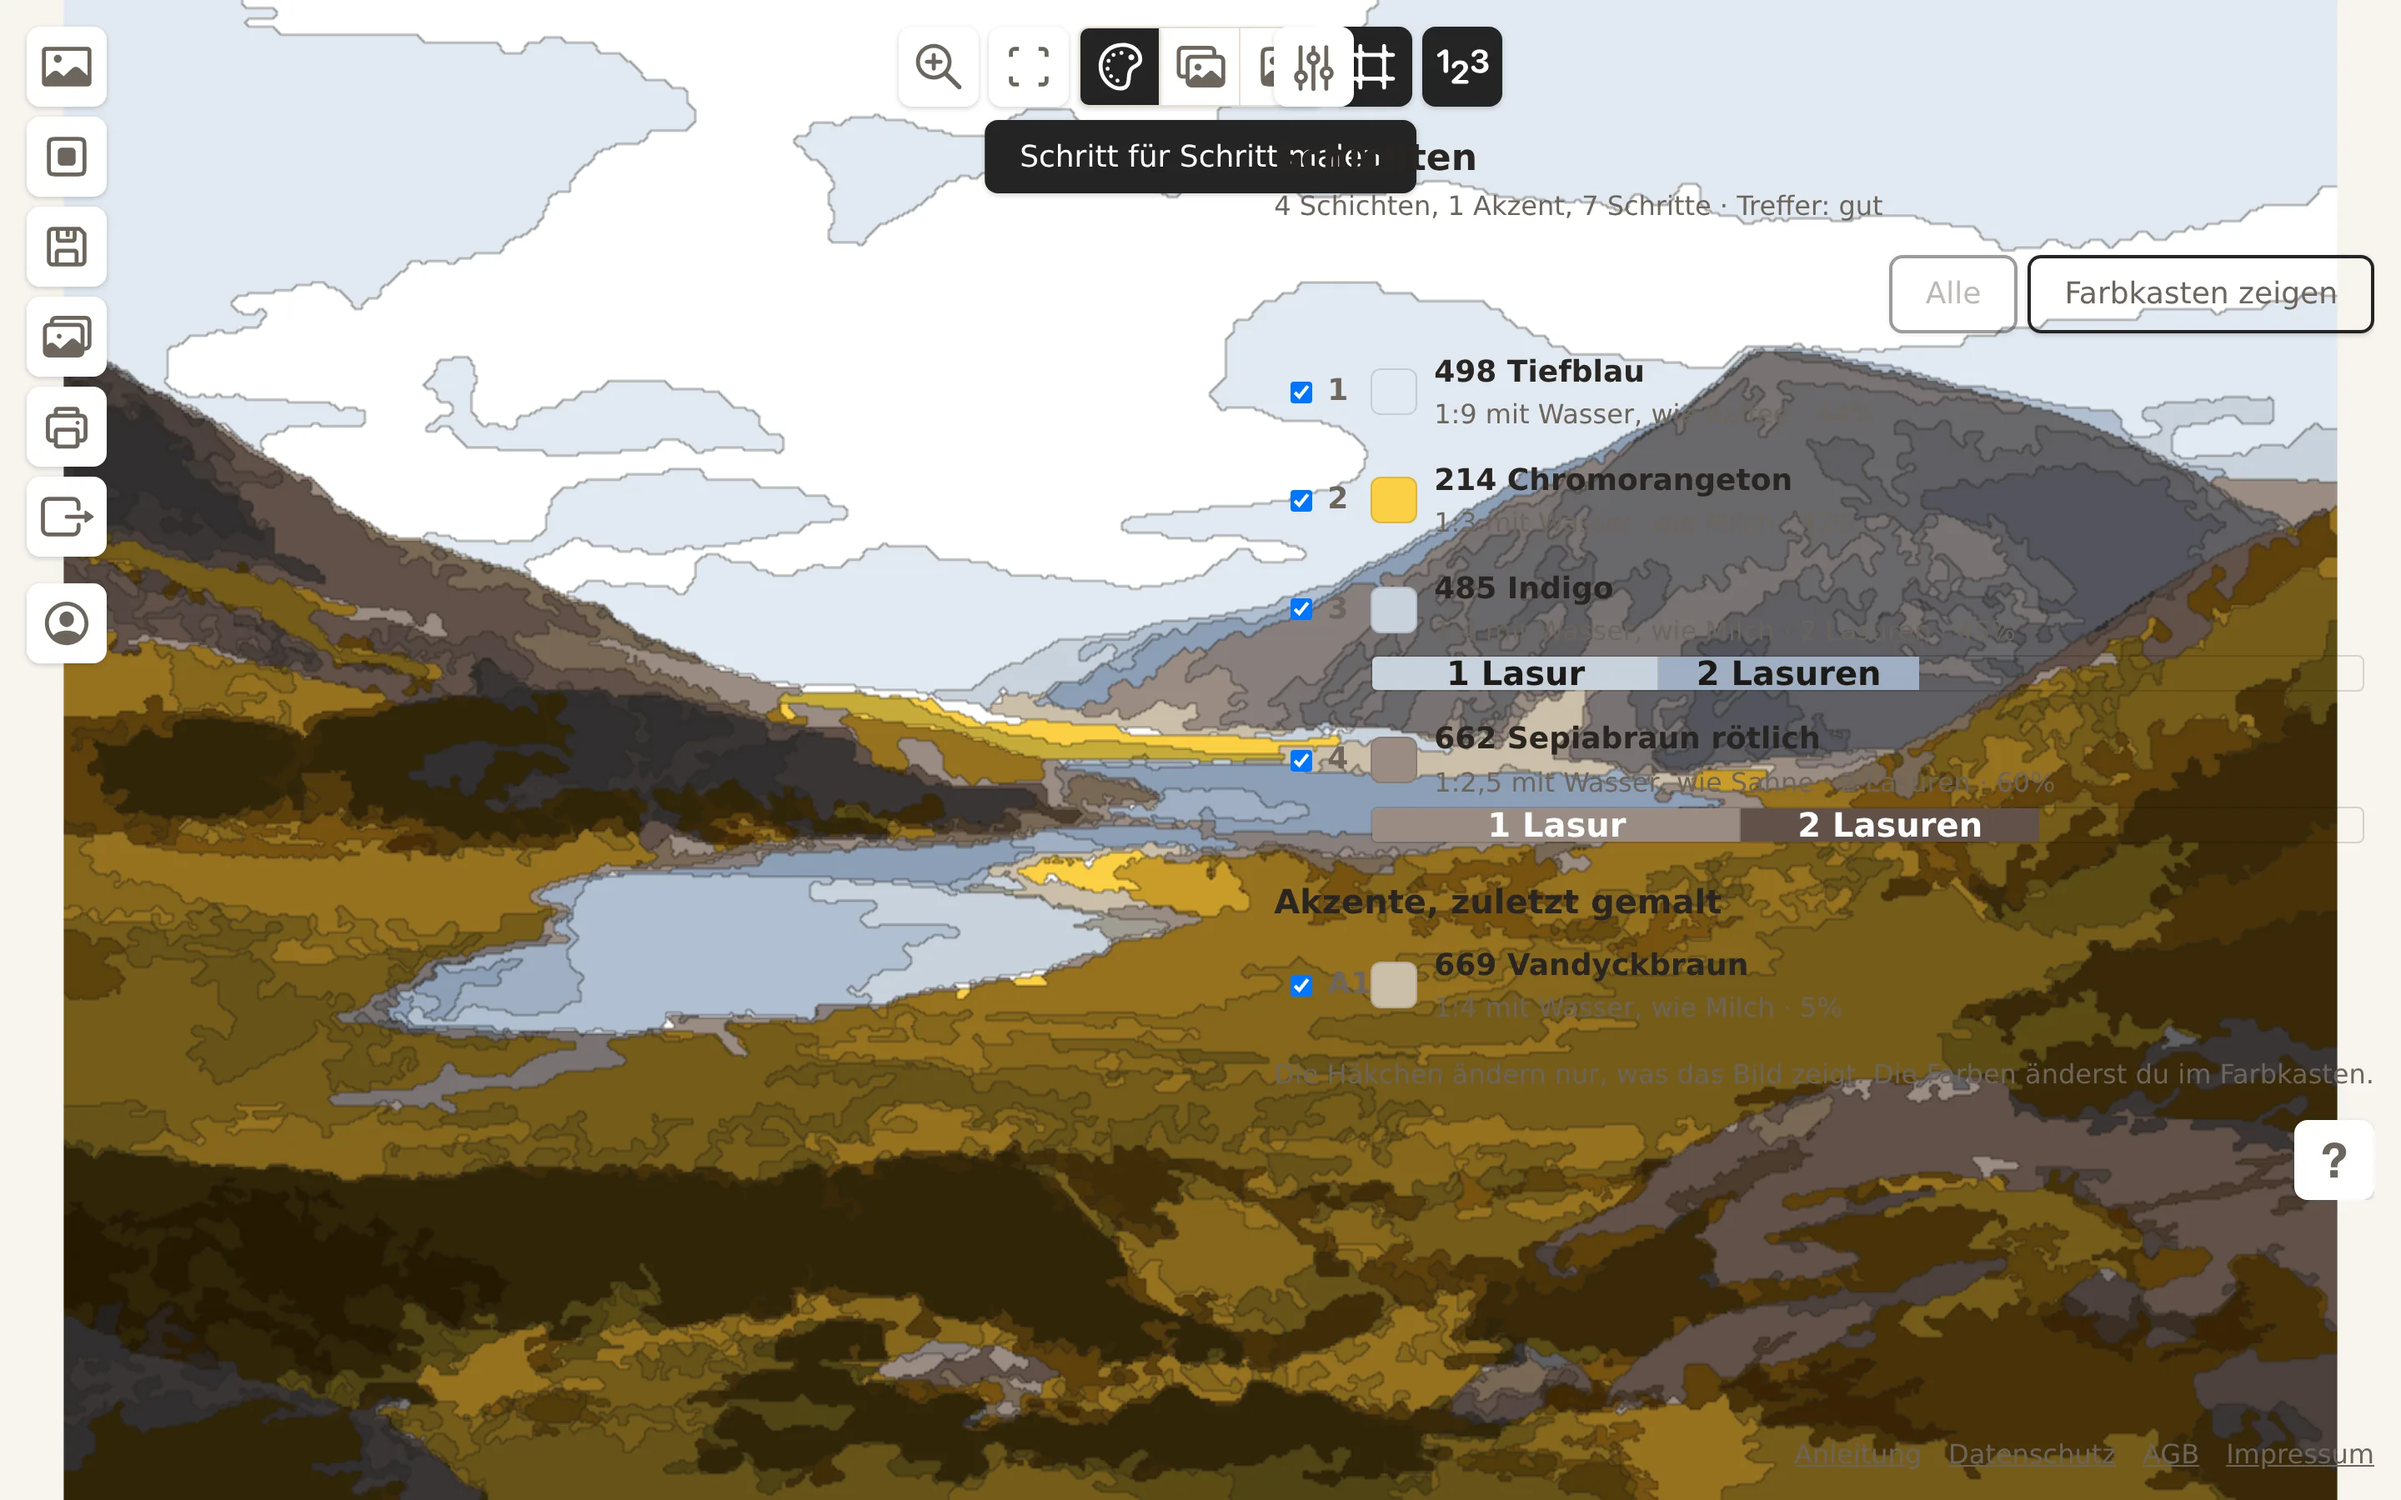
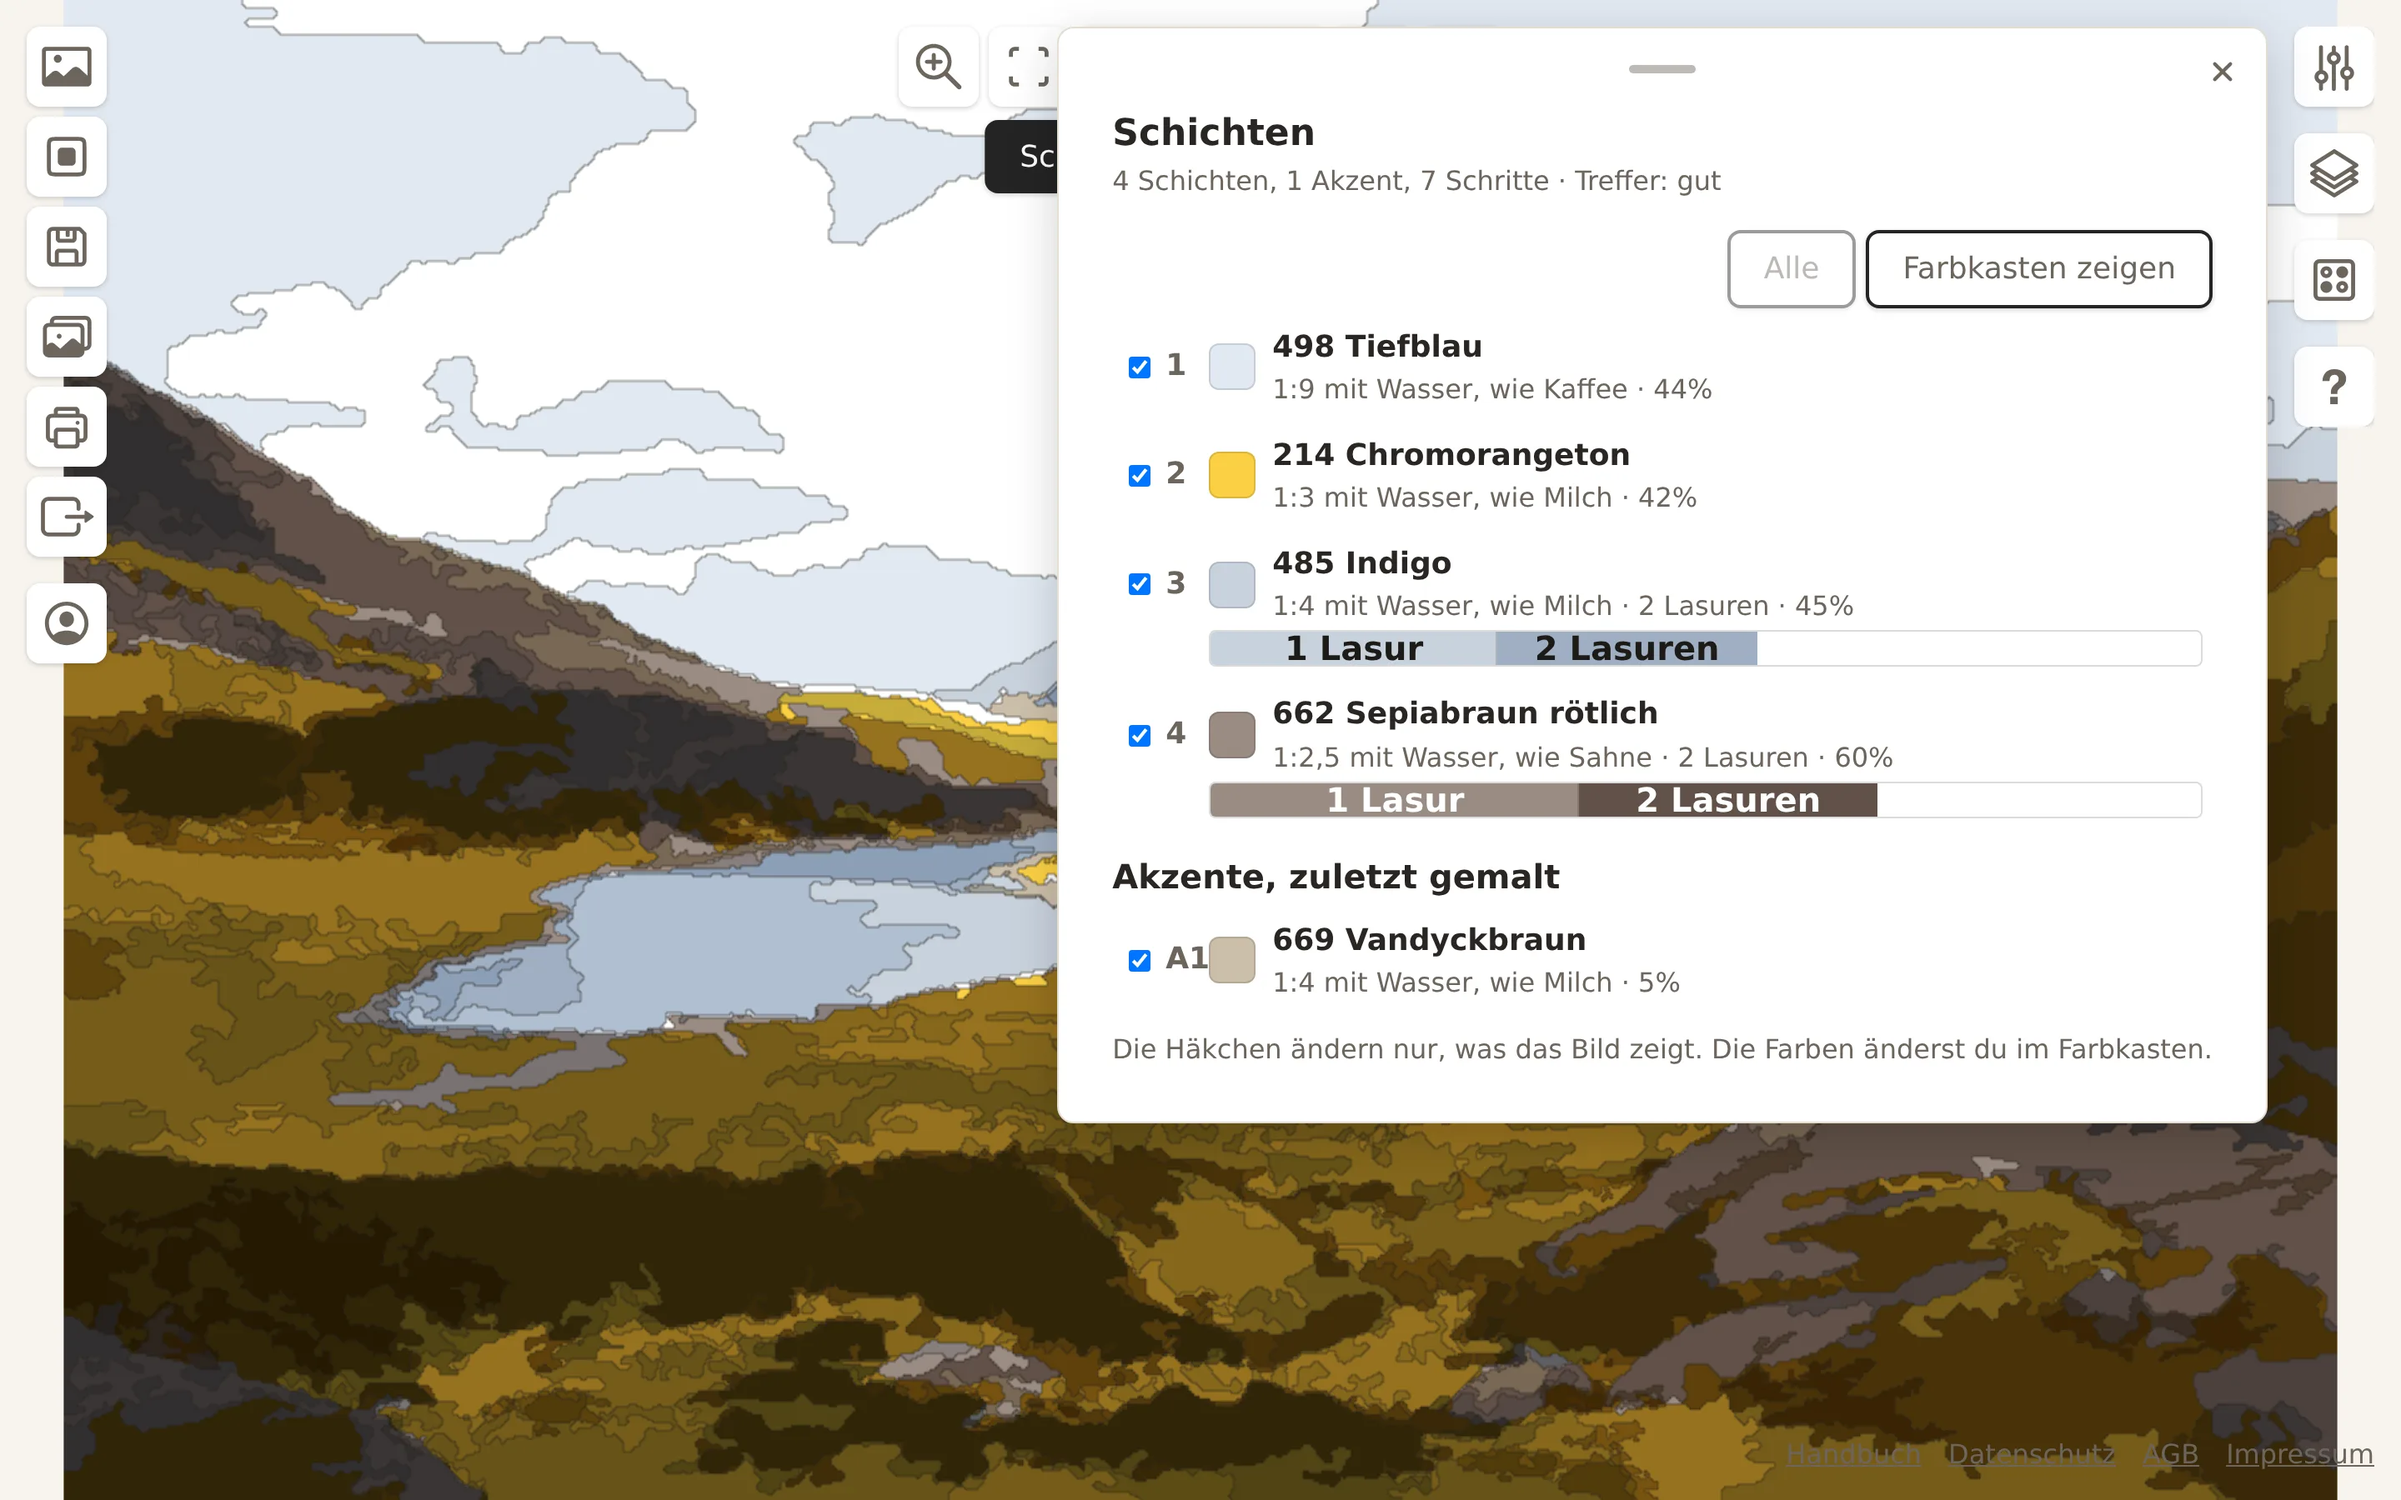
docs: layer-mode screenshots from the fixed layout; chapter 07 says where the layer card opens

diff --git a/public/de/handbuch/alles.html b/public/de/handbuch/alles.html
@@ -559,7 +559,7 @@
 </tr>
 </tbody></table></div>
 <h2 id="schichten--die-schichtenliste"><a class="anchor" href="#schichten--die-schichtenliste" aria-hidden="true" tabindex="-1">#</a>Die Schichtenliste</h2>
-<p>Die Liste zeigt die Schichten in der Reihenfolge, in der du sie malst, von hell nach dunkel, und darunter die Akzente unter <strong>Akzente, zuletzt gemalt</strong>.</p>
+<p>Bei Schichten öffnet der Knopf unter <strong>Einstellungen</strong> in der rechten Spalte statt der Farben die Schichten: eine Karte über dem Bild, die du an ihrem Griff verschiebst und wieder schließt, genau wie die Farbliste. Der Knopf <strong>Farbkasten</strong> darunter öffnet den Farbkasten. Die Karte zeigt die Schichten in der Reihenfolge, in der du sie malst, von hell nach dunkel, und darunter die Akzente unter <strong>Akzente, zuletzt gemalt</strong>. Tippst du auf eine Stelle im Bild, zeigt die Karte diese Stelle oben an.</p>
 <p>Jede Zeile nennt die Farbe, wie du ihre Lasur ansetzt, und ihre Lasuren. Die Lasur steht als Verhältnis und als Konsistenz da, zum Beispiel <strong>1:9 mit Wasser, wie Kaffee</strong>: ein Teil Farbe auf neun Teile Wasser. Die Konsistenzen sind die, mit denen Maler sich verständigen:</p>
 <div class="table-wrap"><table class="table">
 <thead>

diff --git a/public/de/handbuch/schichten.html b/public/de/handbuch/schichten.html
@@ -73,7 +73,7 @@
 </tr>
 </tbody></table></div>
 <h2 id="die-schichtenliste"><a class="anchor" href="#die-schichtenliste" aria-hidden="true" tabindex="-1">#</a>Die Schichtenliste</h2>
-<p>Die Liste zeigt die Schichten in der Reihenfolge, in der du sie malst, von hell nach dunkel, und darunter die Akzente unter <strong>Akzente, zuletzt gemalt</strong>.</p>
+<p>Bei Schichten öffnet der Knopf unter <strong>Einstellungen</strong> in der rechten Spalte statt der Farben die Schichten: eine Karte über dem Bild, die du an ihrem Griff verschiebst und wieder schließt, genau wie die Farbliste. Der Knopf <strong>Farbkasten</strong> darunter öffnet den Farbkasten. Die Karte zeigt die Schichten in der Reihenfolge, in der du sie malst, von hell nach dunkel, und darunter die Akzente unter <strong>Akzente, zuletzt gemalt</strong>. Tippst du auf eine Stelle im Bild, zeigt die Karte diese Stelle oben an.</p>
 <p>Jede Zeile nennt die Farbe, wie du ihre Lasur ansetzt, und ihre Lasuren. Die Lasur steht als Verhältnis und als Konsistenz da, zum Beispiel <strong>1:9 mit Wasser, wie Kaffee</strong>: ein Teil Farbe auf neun Teile Wasser. Die Konsistenzen sind die, mit denen Maler sich verständigen:</p>
 <div class="table-wrap"><table class="table">
 <thead>

diff --git a/public/manual/all.html b/public/manual/all.html
@@ -559,7 +559,7 @@
 </tr>
 </tbody></table></div>
 <h2 id="layer-mode--the-layer-list"><a class="anchor" href="#layer-mode--the-layer-list" aria-hidden="true" tabindex="-1">#</a>The layer list</h2>
-<p>The list shows each layer in painting order, from light to dark, and the accents below it under <strong>Accents, painted last</strong>.</p>
+<p>In layer mode the button below <strong>Settings</strong> in the right column opens the layers instead of the colours: a card over the picture that you can move by its handle and close again, like the colour list. The <strong>Paint box</strong> button below it opens the paint box. The card shows each layer in painting order, from light to dark, and the accents below it under <strong>Accents, painted last</strong>. When you tap a spot in the picture, the card shows that spot at the top.</p>
 <p>Each row gives the paint, how to prepare its wash, and its coats. The wash is written as a ratio and a consistency, for example <strong>1:9 with water, like coffee</strong>: one part paint to nine parts water. The consistencies are the ones painters use:</p>
 <div class="table-wrap"><table class="table">
 <thead>

diff --git a/public/manual/layer-mode.html b/public/manual/layer-mode.html
@@ -73,7 +73,7 @@
 </tr>
 </tbody></table></div>
 <h2 id="the-layer-list"><a class="anchor" href="#the-layer-list" aria-hidden="true" tabindex="-1">#</a>The layer list</h2>
-<p>The list shows each layer in painting order, from light to dark, and the accents below it under <strong>Accents, painted last</strong>.</p>
+<p>In layer mode the button below <strong>Settings</strong> in the right column opens the layers instead of the colours: a card over the picture that you can move by its handle and close again, like the colour list. The <strong>Paint box</strong> button below it opens the paint box. The card shows each layer in painting order, from light to dark, and the accents below it under <strong>Accents, painted last</strong>. When you tap a spot in the picture, the card shows that spot at the top.</p>
 <p>Each row gives the paint, how to prepare its wash, and its coats. The wash is written as a ratio and a consistency, for example <strong>1:9 with water, like coffee</strong>: one part paint to nine parts water. The consistencies are the ones painters use:</p>
 <div class="table-wrap"><table class="table">
 <thead>

diff --git a/docs/manual/chapters/de/07-schichten.md b/docs/manual/chapters/de/07-schichten.md
@@ -40,7 +40,7 @@ In den Einstellungen hat die Methode eigene Regler:
 
 ## Die Schichtenliste
 
-Die Liste zeigt die Schichten in der Reihenfolge, in der du sie malst, von hell nach dunkel, und darunter die Akzente unter **Akzente, zuletzt gemalt**.
+Bei Schichten öffnet der Knopf unter **Einstellungen** in der rechten Spalte statt der Farben die Schichten: eine Karte über dem Bild, die du an ihrem Griff verschiebst und wieder schließt, genau wie die Farbliste. Der Knopf **Farbkasten** darunter öffnet den Farbkasten. Die Karte zeigt die Schichten in der Reihenfolge, in der du sie malst, von hell nach dunkel, und darunter die Akzente unter **Akzente, zuletzt gemalt**. Tippst du auf eine Stelle im Bild, zeigt die Karte diese Stelle oben an.
 
 Jede Zeile nennt die Farbe, wie du ihre Lasur ansetzt, und ihre Lasuren. Die Lasur steht als Verhältnis und als Konsistenz da, zum Beispiel **1:9 mit Wasser, wie Kaffee**: ein Teil Farbe auf neun Teile Wasser. Die Konsistenzen sind die, mit denen Maler sich verständigen:
 

diff --git a/docs/manual/chapters/en/07-layer-mode.md b/docs/manual/chapters/en/07-layer-mode.md
@@ -40,7 +40,7 @@ In the settings, layer mode has its own controls:
 
 ## The layer list
 
-The list shows each layer in painting order, from light to dark, and the accents below it under **Accents, painted last**.
+In layer mode the button below **Settings** in the right column opens the layers instead of the colours: a card over the picture that you can move by its handle and close again, like the colour list. The **Paint box** button below it opens the paint box. The card shows each layer in painting order, from light to dark, and the accents below it under **Accents, painted last**. When you tap a spot in the picture, the card shows that spot at the top.
 
 Each row gives the paint, how to prepare its wash, and its coats. The wash is written as a ratio and a consistency, for example **1:9 with water, like coffee**: one part paint to nine parts water. The consistencies are the ones painters use:
 
